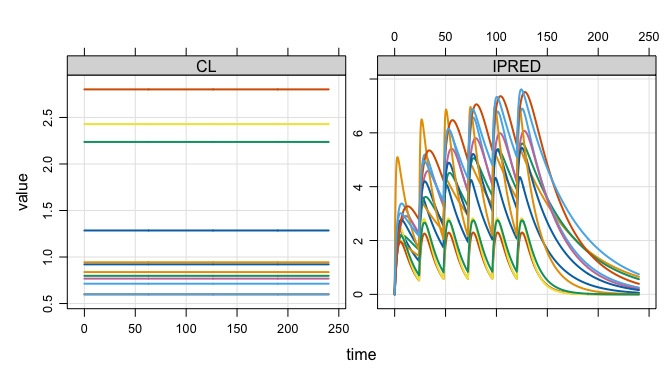
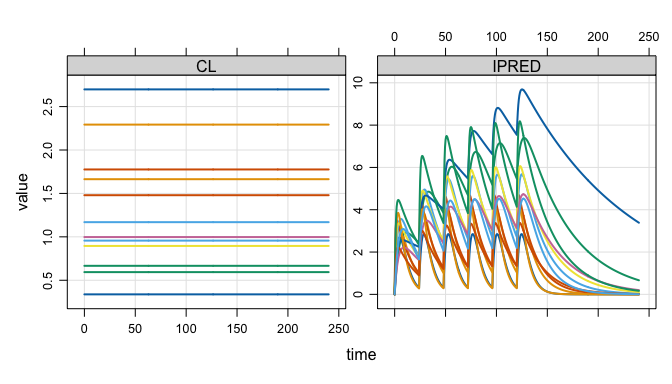
add headings

diff --git a/README.md b/README.md
@@ -45,23 +45,25 @@ out
 . Model: popex
 . Dim  : 1.4M 4
 . Files: 1 [11.9 Mb]
-.     ID time       CL    IPRED
-. 1:   1  0.0 1.285184 0.000000
-. 2:   1  0.0 1.285184 0.000000
-. 3:   1  0.5 1.285184 1.075078
-. 4:   1  1.0 1.285184 1.724978
-. 5:   1  1.5 1.285184 2.110421
-. 6:   1  2.0 1.285184 2.331502
-. 7:   1  2.5 1.285184 2.450558
-. 8:   1  3.0 1.285184 2.506411
+.     ID time       CL     IPRED
+. 1:   1  0.0 2.698099 0.0000000
+. 2:   1  0.0 2.698099 0.0000000
+. 3:   1  0.5 2.698099 0.6776074
+. 4:   1  1.0 2.698099 1.2224352
+. 5:   1  1.5 2.698099 1.6543026
+. 6:   1  2.0 2.698099 1.9903601
+. 7:   1  2.5 2.698099 2.2454307
+. 8:   1  3.0 2.698099 2.4323095
 ```
+
+## Very lightweight simulation output object
 
 The output object doesn’t actually carry the simulated data, but rather
 a pointer to the data in parquet files on your disk.
 
 ``` r
 out$files
-. [1] "/private/var/folders/zv/v6tkdhrn1_bb1ndrc0c0j31w0000gp/T/RtmpiFooHC/mrgsims-ds-8f4912136725.parquet"
+. [1] "/private/var/folders/zv/v6tkdhrn1_bb1ndrc0c0j31w0000gp/T/RtmpTEhsVZ/mrgsims-ds-90fe731307d2.parquet"
 ```
 
 This means there is almost nothing inside the object itself
@@ -88,6 +90,8 @@ dim(x)
 
 The object is very light weight despite carrying the same data.
 
+## Handles like regular mrgsim output
+
 But, we can do a lot of the typical things we would with any mrgsim
 output object.
 
@@ -102,23 +106,23 @@ head(out)
 . # A tibble: 6 × 4
 .      ID  time    CL IPRED
 .   <dbl> <dbl> <dbl> <dbl>
-. 1     1   0    1.29  0   
-. 2     1   0    1.29  0   
-. 3     1   0.5  1.29  1.08
-. 4     1   1    1.29  1.72
-. 5     1   1.5  1.29  2.11
-. 6     1   2    1.29  2.33
+. 1     1   0    2.70 0    
+. 2     1   0    2.70 0    
+. 3     1   0.5  2.70 0.678
+. 4     1   1    2.70 1.22 
+. 5     1   1.5  2.70 1.65 
+. 6     1   2    2.70 1.99
 
 tail(out)
 . # A tibble: 6 × 4
-.      ID  time    CL IPRED
-.   <dbl> <dbl> <dbl> <dbl>
-. 1  3000  238. 0.598 0.675
-. 2  3000  238  0.598 0.668
-. 3  3000  238. 0.598 0.660
-. 4  3000  239  0.598 0.653
-. 5  3000  240. 0.598 0.646
-. 6  3000  240  0.598 0.639
+.      ID  time    CL  IPRED
+.   <dbl> <dbl> <dbl>  <dbl>
+. 1  3000  238. 0.961 0.0607
+. 2  3000  238  0.961 0.0595
+. 3  3000  238. 0.961 0.0583
+. 4  3000  239  0.961 0.0572
+. 5  3000  240. 0.961 0.0560
+. 6  3000  240  0.961 0.0549
 
 dim(out)
 . [1] 1446000       4
@@ -132,16 +136,16 @@ as_tibble(out)
 . # A tibble: 1,446,000 × 4
 .       ID  time    CL IPRED
 .    <dbl> <dbl> <dbl> <dbl>
-.  1     1   0    1.29  0   
-.  2     1   0    1.29  0   
-.  3     1   0.5  1.29  1.08
-.  4     1   1    1.29  1.72
-.  5     1   1.5  1.29  2.11
-.  6     1   2    1.29  2.33
-.  7     1   2.5  1.29  2.45
-.  8     1   3    1.29  2.51
-.  9     1   3.5  1.29  2.52
-. 10     1   4    1.29  2.52
+.  1     1   0    2.70 0    
+.  2     1   0    2.70 0    
+.  3     1   0.5  2.70 0.678
+.  4     1   1    2.70 1.22 
+.  5     1   1.5  2.70 1.65 
+.  6     1   2    2.70 1.99 
+.  7     1   2.5  2.70 2.25 
+.  8     1   3    2.70 2.43 
+.  9     1   3.5  2.70 2.56 
+. 10     1   4    2.70 2.64 
 . # ℹ 1,445,990 more rows
 ```
 
@@ -159,7 +163,9 @@ as_arrow_ds(out)
 . See $metadata for additional Schema metadata
 ```
 
-We’ve integrated into the dplyr verbs as well
+## Tidyverse-friendly
+
+We’ve integrated into the dplyr ecosystem as well
 
 ``` r
 dd <- 
@@ -181,20 +187,22 @@ collect(dd)
 .     time  Mean
 .    <dbl> <dbl>
 .  1   0    0   
-.  2   0.5  1.10
+.  2   0.5  1.09
 .  3   1    1.79
 .  4   1.5  2.25
 .  5   2    2.56
 .  6   2.5  2.77
 .  7   3    2.91
-.  8   3.5  3.01
-.  9  16.5  2.18
-. 10  17.5  2.10
+.  8   3.5  3.00
+.  9  16.5  2.17
+. 10  17.5  2.08
 . # ℹ 471 more rows
 ```
 
+## Good for large simulations
+
 This workflow is particularly useful when running replicate simulations
-in parallel
+in parallel, with loarge outputs
 
 ``` r
 library(future.apply)
@@ -210,27 +218,29 @@ out2
 . Model: popex
 . Dim  : 14.5M 4
 . Files: 10 [119.1 Mb]
-.     ID time        CL    IPRED
-. 1:   1  0.0 0.3993847 0.000000
-. 2:   1  0.0 0.3993847 0.000000
-. 3:   1  0.5 0.3993847 1.443463
-. 4:   1  1.0 0.3993847 2.505440
-. 5:   1  1.5 0.3993847 3.282590
-. 6:   1  2.0 0.3993847 3.847126
-. 7:   1  2.5 0.3993847 4.253000
-. 8:   1  3.0 0.3993847 4.540514
+.     ID time       CL    IPRED
+. 1:   1  0.0 1.297545 0.000000
+. 2:   1  0.0 1.297545 0.000000
+. 3:   1  0.5 1.297545 1.479155
+. 4:   1  1.0 1.297545 2.489495
+. 5:   1  1.5 1.297545 3.165403
+. 6:   1  2.0 1.297545 3.603171
+. 7:   1  2.5 1.297545 3.871784
+. 8:   1  3.0 1.297545 4.020650
 ```
+
+## Files on disk are automagically managed
 
 All arrow files are stored in the tempdir in parquet format
 
 ``` r
 list_temp()
 . 11 files [131.1 Mb]
-. - mrgsims-ds-8f4912136725.parquet
-. - mrgsims-ds-8f8728d040ec.parquet
+. - mrgsims-ds-90fe731307d2.parquet
+. - mrgsims-ds-913b2a7dcbce.parquet
 .    ...
-. - mrgsims-ds-8f8b4a963612.parquet
-. - mrgsims-ds-8f8b4bb7fdff.parquet
+. - mrgsims-ds-913f3f3404f9.parquet
+. - mrgsims-ds-913f703297d9.parquet
 ```
 
 This directory is eventually removed when the R session ends. Tools are
@@ -242,11 +252,11 @@ retain_temp(out2)
 
 list_temp()
 . 10 files [119.1 Mb]
-. - mrgsims-ds-8f8728d040ec.parquet
-. - mrgsims-ds-8f8776f761b6.parquet
+. - mrgsims-ds-913b2a7dcbce.parquet
+. - mrgsims-ds-913b44df750d.parquet
 .    ...
-. - mrgsims-ds-8f8b4a963612.parquet
-. - mrgsims-ds-8f8b4bb7fdff.parquet
+. - mrgsims-ds-913f3f3404f9.parquet
+. - mrgsims-ds-913f703297d9.parquet
 ```
 
 We also put a finalizer on each object so that, when it goes out of
@@ -285,8 +295,8 @@ cleaned up.
 ``` r
 gc()
 .            used  (Mb) gc trigger  (Mb) limit (Mb) max used  (Mb)
-. Ncells  1695953  90.6    3059974 163.5         NA  2673460 142.8
-. Vcells 14761850 112.7   30249971 230.8      16384 26543918 202.6
+. Ncells  1695960  90.6    3059982 163.5         NA  2670521 142.7
+. Vcells 14761933 112.7   30250083 230.8      16384 26544011 202.6
 
 list_temp()
 . 2 files [23.8 Mb]
